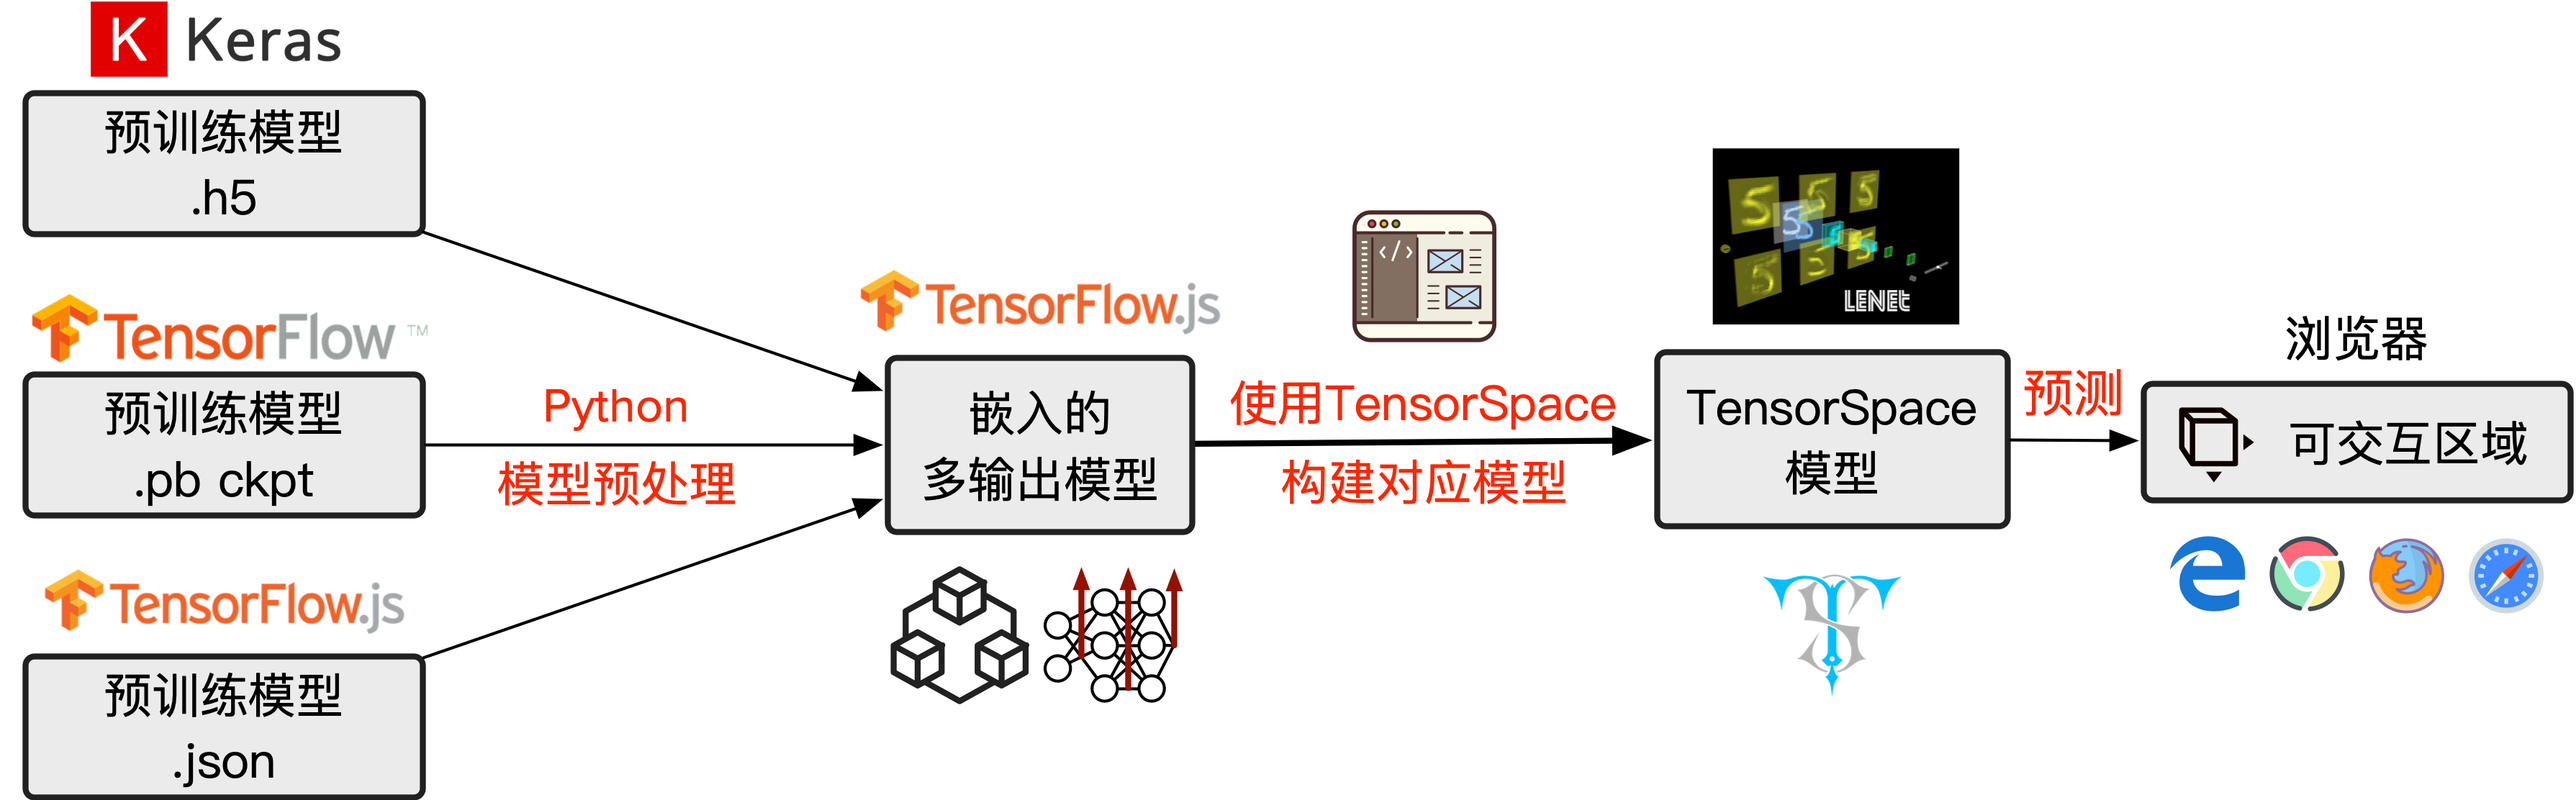
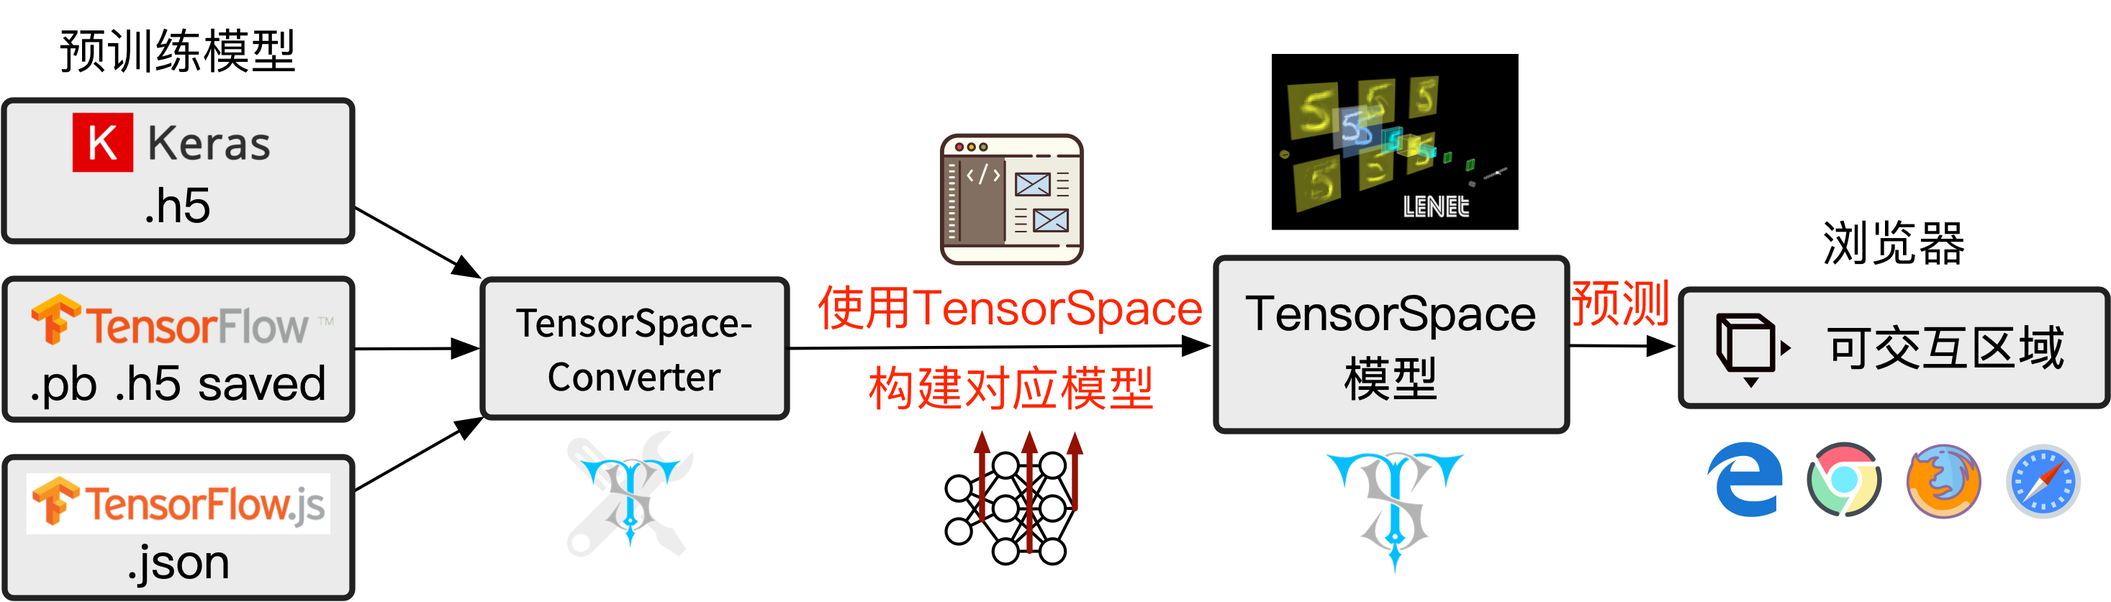
Docs: Update workflow images

diff --git a/html/docs/startIntro_zh.html b/html/docs/startIntro_zh.html
@@ -379,7 +379,7 @@
             </ul>
         </div>
 
-        <img class="tag-img" src="../../assets/img/docs/startIntro.png">
+        <img class="tag-img" src="../../assets/img/docs/startIntro_zh.png">
         <div class="img-label">
             <span class="img-label-number">Fig. 1</span> - TensorSpace 使用开发流程
         </div>
